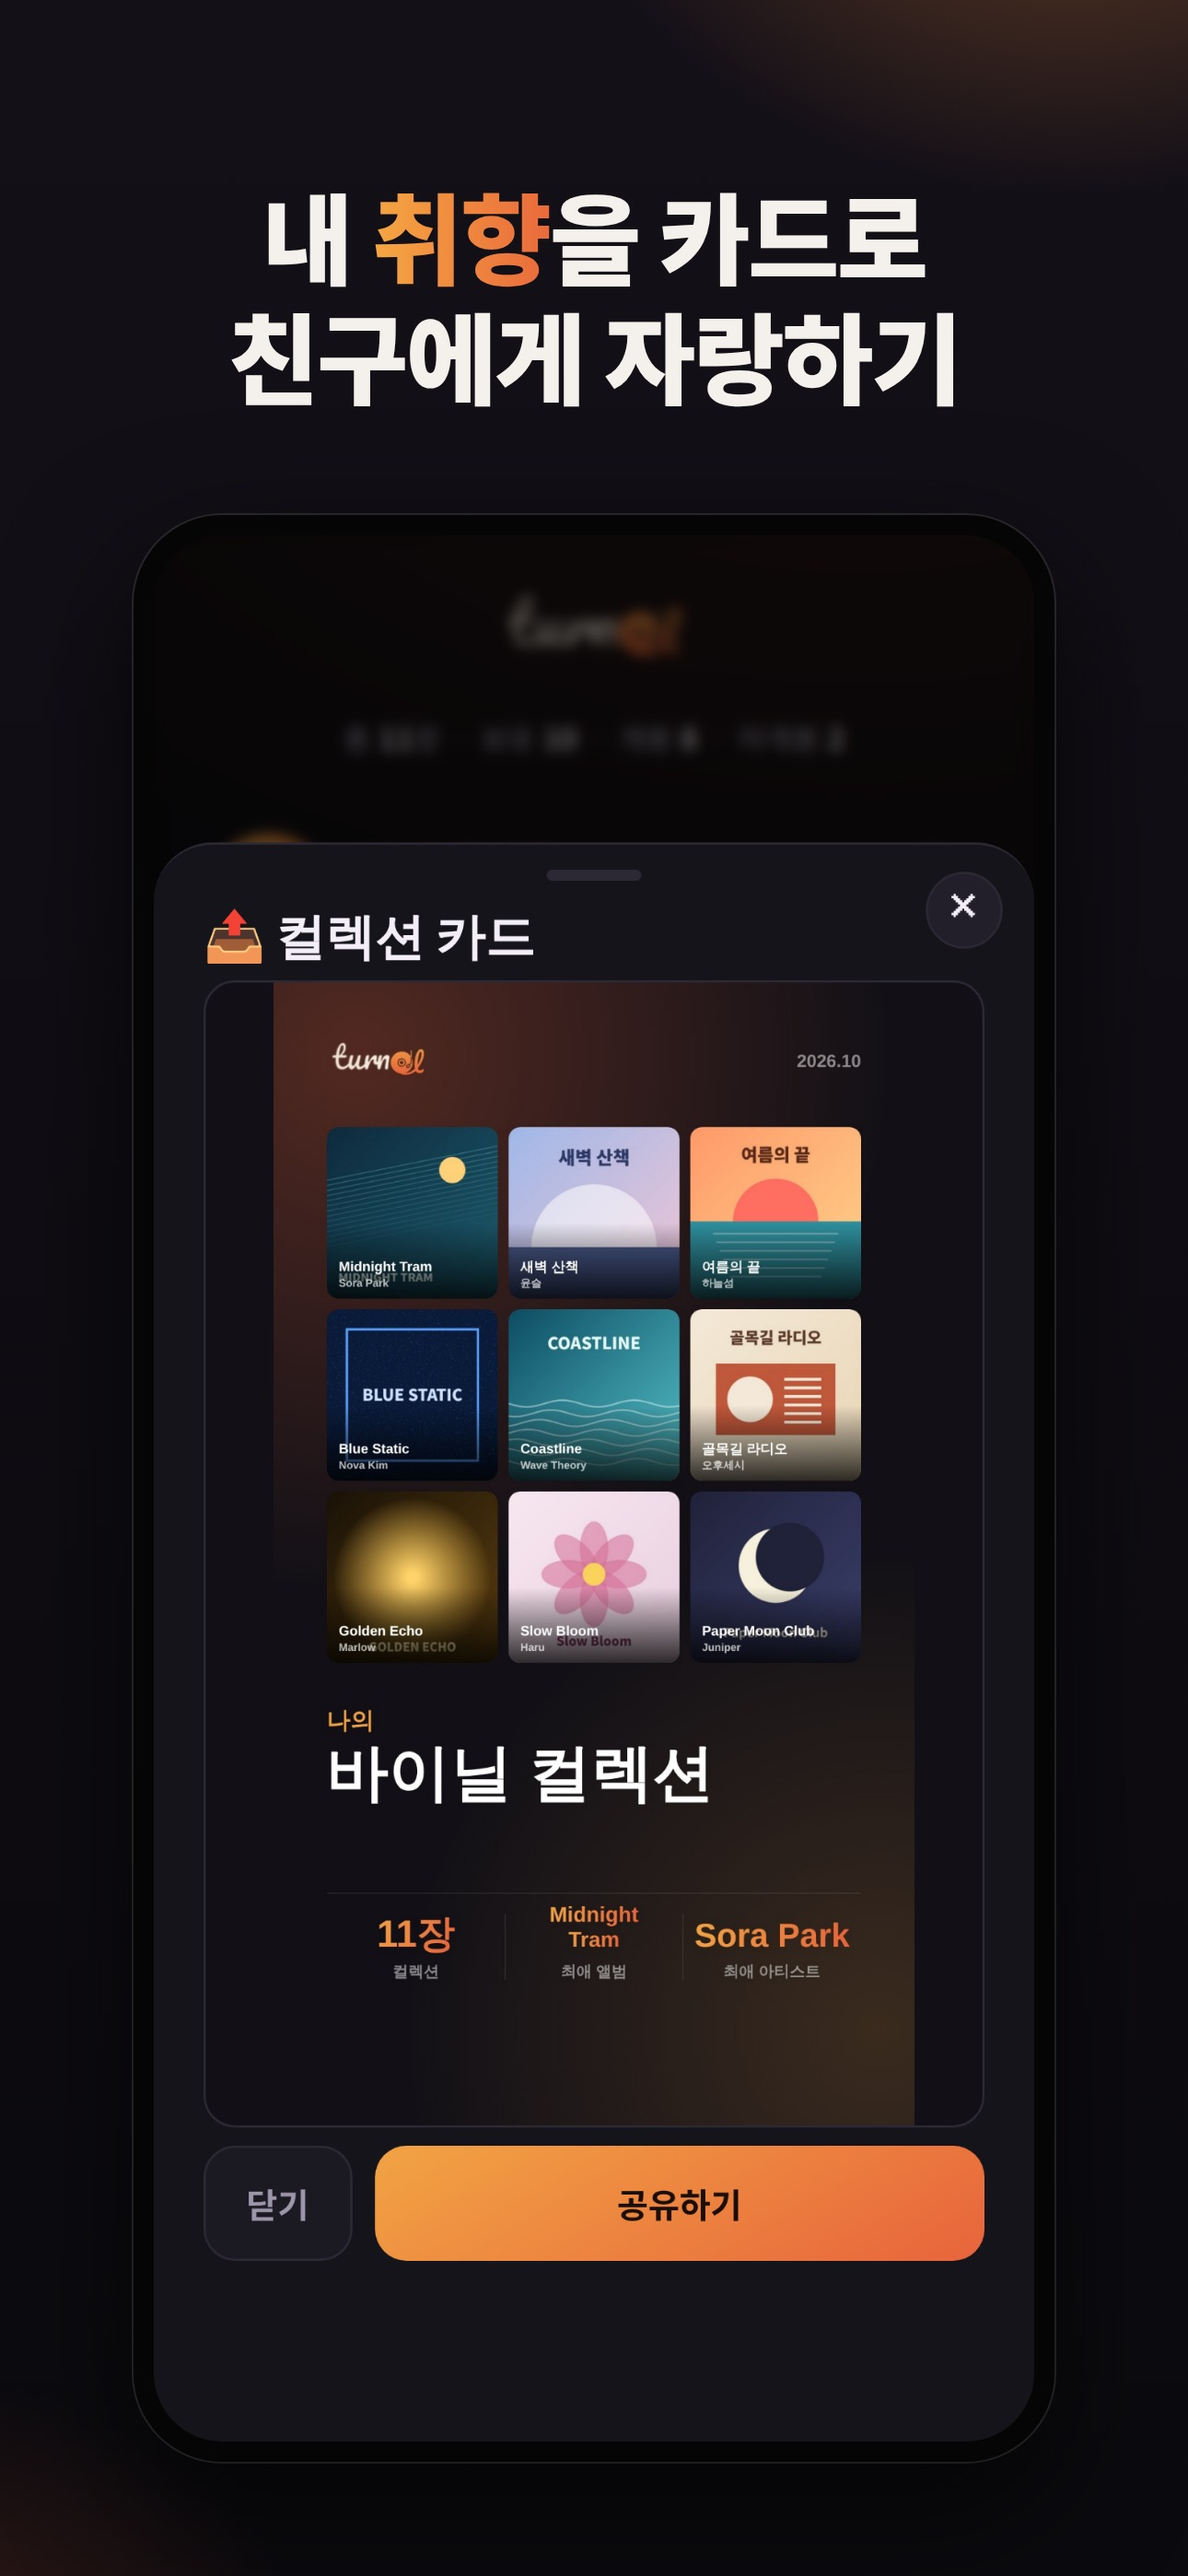
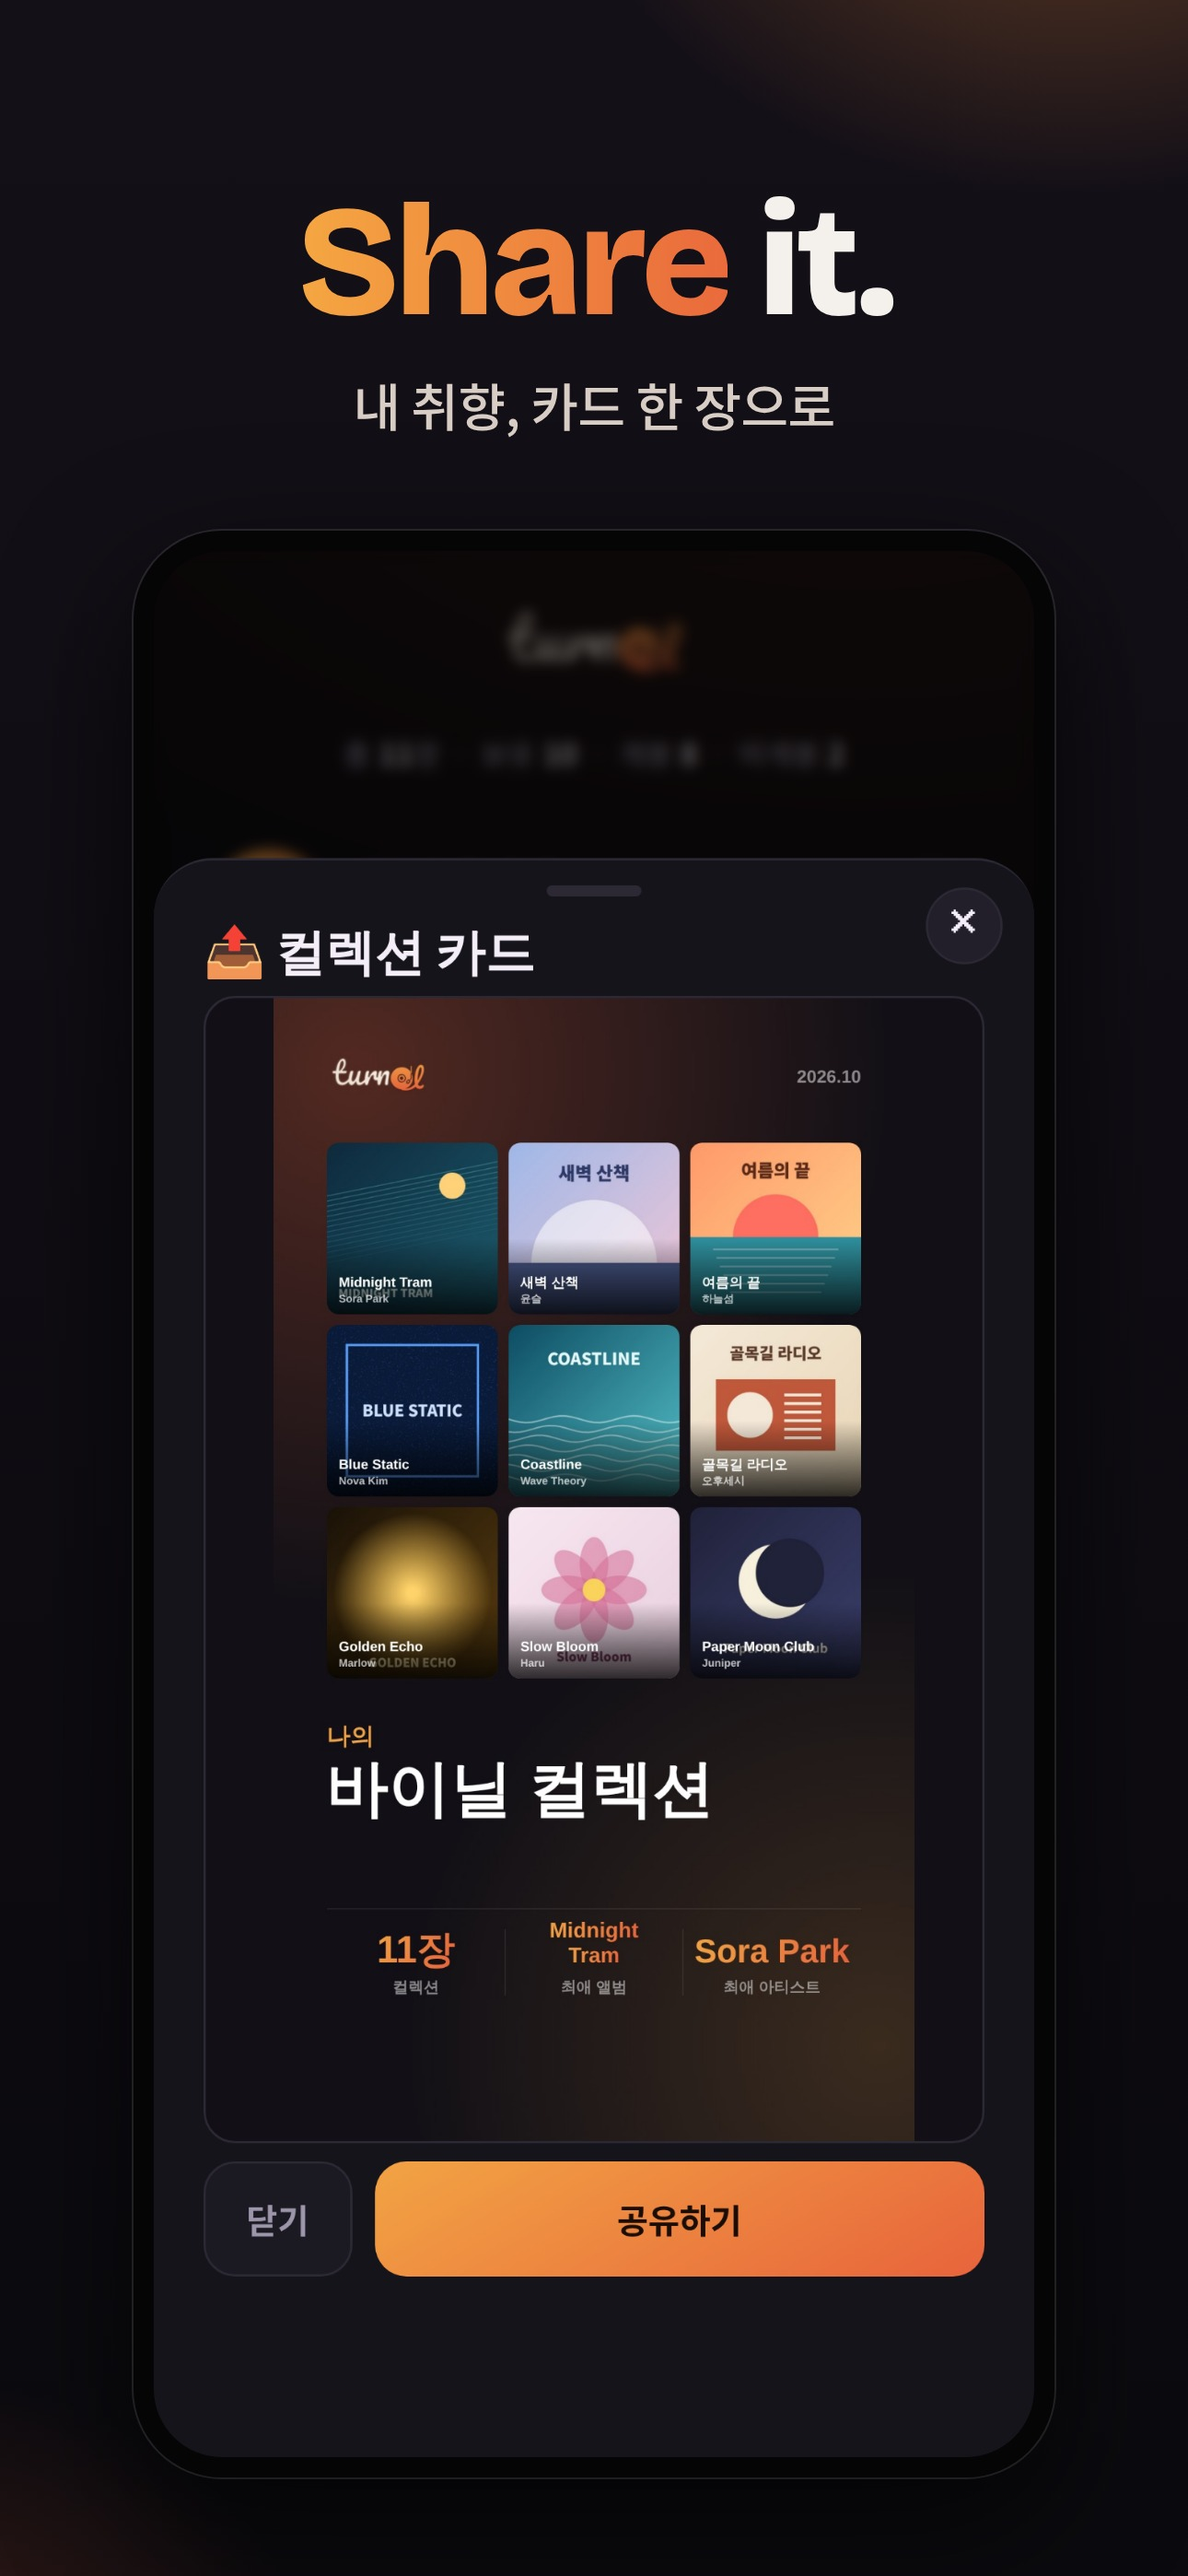
스토어 문구를 '○○ it.' 시리즈로: Turn/Keep/Find/Match/Share/Log/Track it.
- 스크린샷 7장: 큰 영어 한 마디(Bricolage Grotesque, 동사 강조) + 작은 한 줄(한/영)
- 그래픽 이미지: 'Turn it. Hear it.' + 돌려 듣는 내 바이닐 보관함
- STORE.md 스크린샷 표·긴 설명 첫 줄도 같은 문구로

Claude-Session: https://claude.ai/code/session_01RaKXDuWjQRYDcbkM1oTs7b

diff --git a/STORE.md b/STORE.md
@@ -21,15 +21,20 @@
 
 스크린샷 순서와 문구(한국어 / 영어):
 
-앱의 두 강점(손가락으로 돌려 듣기, 취향 카드 공유)이 먼저 보이도록 1번과 5번에 두었습니다.
+큰 영어 한 마디 + 작은 한 줄(한국어/영어) 구성입니다. 일곱 장 모두 "○○ it." 으로 끝나 앱 이름 **Turn it** 이 각인되도록 했습니다.
+앱의 두 강점(손가락으로 돌려 듣기, 취향 카드 공유)은 1번과 5번에 두었습니다.
 
-1. 손가락으로 돌리면 **노래**가 흘러요 — **Spin** the disc to play the music (보관함 카드에서 꺼낸 디스크 + 회전 표시)
-2. 모아온 **바이닐**을 한눈에 — Your **vinyl**, all in one place (보관함)
-3. 검색 한 번이면 **커버와 노래**까지 — One search finds the **cover & songs** (등록: 이 앨범이 맞나요?)
-4. **디스크 컬러**까지 그대로 — Right down to your **disc color** (등록: 디스크 컬러·투명도·RPM·인치)
-5. 내 **취향**을 카드로 친구에게 자랑하기 — Show off your **taste** with a card (컬렉션 카드 공유)
-6. 사고, 듣고, **달력**에 남기고 — Every buy and spin on your **calendar** (달력)
-7. 얼마나 모았는지 한눈에 **통계**로 — Your collection in **numbers** (통계)
+| # | 큰 문구 | 작은 문구 (한국어 / 영어) | 화면 |
+|---|---|---|---|
+| 1 | **Turn** it. | 돌리면, 음악이 시작돼요 / Spin the disc, start the music | 카드에서 꺼낸 디스크 + 회전 표시 |
+| 2 | **Keep** it. | 모아온 바이닐을 한곳에 / Every record, one shelf | 보관함 |
+| 3 | **Find** it. | 검색 한 번이면 커버와 노래까지 / One search, cover and songs | 등록: 이 앨범이 맞나요? |
+| 4 | **Match** it. | 디스크 색까지 내 것 그대로 / Right down to your disc color | 등록: 디스크 컬러·투명도·RPM·인치 |
+| 5 | **Share** it. | 내 취향, 카드 한 장으로 / Your taste, on a card | 컬렉션 카드 공유 |
+| 6 | **Log** it. | 사고, 듣고, 달력에 남기고 / Every buy and spin, on a calendar | 달력 |
+| 7 | **Track** it. | 얼마나 모았는지 한눈에 / Your collection in numbers | 통계 |
+
+그래픽 이미지: **Turn it. Hear it.** + 돌려 듣는 내 바이닐 보관함 / Your vinyl collection, ready to spin
 
 - 스크린샷 속 앨범은 모두 **가상의 앨범과 직접 그린 커버**입니다(실제 앨범 아트 저작권 문제 방지).
 - 다시 만들 때는 같은 데모 데이터로 앱을 띄워 캡처한 뒤 문구를 얹었습니다. 화면이 바뀌면 다시 만들어 주세요.
@@ -61,7 +66,8 @@ Turnit — 내 바이닐 보관함
 
 ### 긴 설명 (4000자)
 ```
-🎵 Turnit — 돌려 듣는 내 바이닐 보관함
+🎵 Turn it. Hear it.
+돌려 듣는 내 바이닐 보관함, Turnit
 
 모아온 바이닐을 한 곳에 예쁘게 정리하고, 손가락으로 돌려 듣고, 내 취향을 친구에게 자랑해 보세요.
 
@@ -140,7 +146,8 @@ vinyl,record,LP,turntable,collection,album,collector,barcode,music log,crate,rec
 
 ### Full description (4000)
 ```
-🎵 Turnit — your vinyl collection, ready to spin
+🎵 Turn it. Hear it.
+Turnit — your vinyl collection, ready to spin
 
 Keep every record you own in one beautiful place, spin it with your finger to listen, and show off your taste to friends.
 
